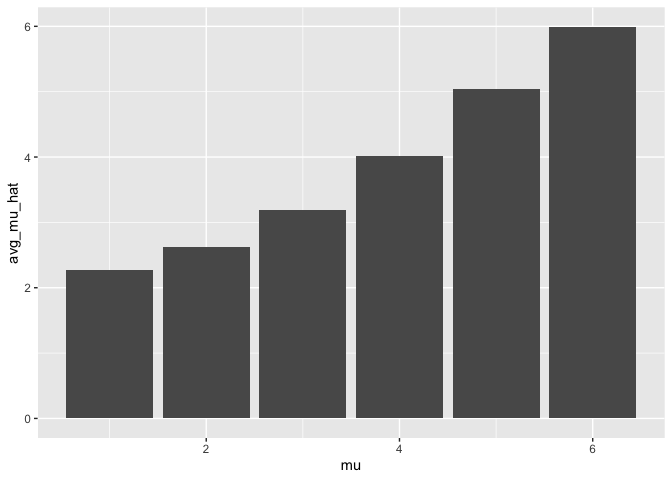
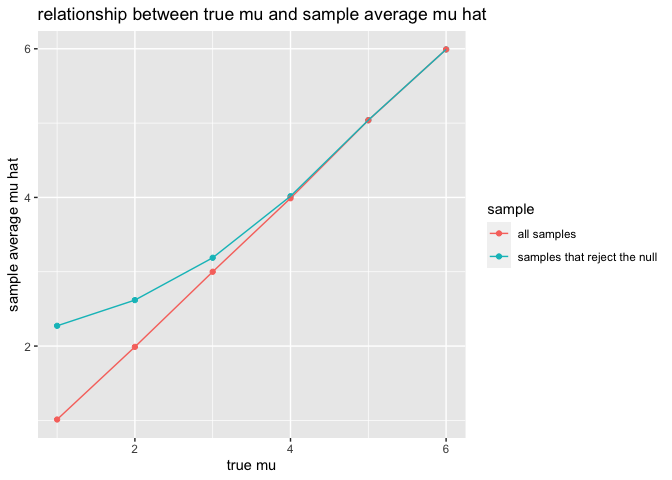
add comment

diff --git a/p8105_hw5_yw4005.md b/p8105_hw5_yw4005.md
@@ -1,7 +1,7 @@
 P8105 HW5
 ================
 Yijin Serena Wang
-2022-11-15
+2022-11-16
 
 ``` r
 library(tidyverse)
@@ -15,11 +15,18 @@ library(ggplot2)
 
 ## Problem 1
 
+Find all available csv files in p1_data folder and load them all.
+
 ``` r
 file_paths <- list.files("./p1_data", full.names = TRUE)
 participant_data <- tibble(file_name = str_replace(file_paths, "./p1_data/","")) %>%
   mutate(data = map(.x = file_paths, ~read_csv(file = .x)))
 ```
+
+Clean up the data set: 1. Split the full file name into only arm_id,
+then split it into separate columns for arm and id. 2. Pivot the data
+frame so that each row is for a weekly observation for a participant on
+a specific arm.
 
 ``` r
 participant_data <- participant_data %>%
@@ -51,6 +58,8 @@ head(participant_data)
     ## 5 control 01        5  0.23
     ## 6 control 01        6  1.09
 
+Plot all weekly readings and color it by arm and id number
+
 ``` r
 participant_data %>%
   ggplot(aes(x = week, y = value, color = interaction(id, arm))) +
@@ -73,6 +82,9 @@ The raw data contains information about criminal homicides in the last
 10 years in the US. It includes 52179 observations. They have victim’s
 information, specific location of homicide, whether an arrest was made.
 
+Save the data to a local path and create a city state column by merging
+the city and state columns.
+
 ``` r
 homicide_data <- read_csv("./p2_data/homicide-data.csv") %>%
   mutate(city_state = paste0(city, ", ", state)) %>%
@@ -87,6 +99,8 @@ homicide_data <- read_csv("./p2_data/homicide-data.csv") %>%
     ## 
     ## ℹ Use `spec()` to retrieve the full column specification for this data.
     ## ℹ Specify the column types or set `show_col_types = FALSE` to quiet this message.
+
+Count number of homicides and unsolved_homicides forr each city state.
 
 ``` r
 homicide_summary <- homicide_data %>%
@@ -152,6 +166,8 @@ homicide_summary %>%
 | Tulsa, OK          |                       583 |                          193 |
 | Washington, DC     |                      1345 |                          589 |
 
+Run prop.test for Baltimore only.
+
 ``` r
 baltimore_unsolved_test <- 
   prop.test(
@@ -164,22 +180,26 @@ baltimore_unsolved_test <-
 
 baltimore_unsolved_test %>% 
   tidy() %>%
+  select(estimate, conf.low, conf.high) %>%
   knitr::kable(digits = 5)
 ```
 
-| estimate | statistic | p.value | parameter | conf.low | conf.high | method                                               | alternative |
-|---------:|----------:|--------:|----------:|---------:|----------:|:-----------------------------------------------------|:------------|
-|  0.64556 |   239.011 |       0 |         1 |  0.62756 |   0.66316 | 1-sample proportions test with continuity correction | two.sided   |
+| estimate | conf.low | conf.high |
+|---------:|---------:|----------:|
+|  0.64556 |  0.62756 |   0.66316 |
 
 With 95% confidence level, estimated proportion is 0.6455607 and
 estimated confidence interval is (0.6275625, 0.6631599).
+
+Run prop test on all city states
 
 ``` r
 prop_test_results <- map2(
   .y  = homicide_summary$total_number_of_homicides,
   .x = homicide_summary$number_of_unsolved_homicides,
-  ~prop.test(x = .x, n = .y) %>%
-    tidy()
+  ~prop.test(x = .x, n = .y) %>% 
+    tidy() %>% 
+    select(estimate, conf.low, conf.high)
 )
 ```
 
@@ -200,14 +220,17 @@ head(prop_test_results) %>%
   knitr::kable(digits = 3)
 ```
 
-| city_state      | total_number_of_homicides | number_of_unsolved_homicides | estimate | statistic | p.value | parameter | conf.low | conf.high | method                                               | alternative |
-|:----------------|--------------------------:|-----------------------------:|---------:|----------:|--------:|----------:|---------:|----------:|:-----------------------------------------------------|:------------|
-| Albuquerque, NM |                       378 |                          146 |    0.386 |    19.114 |   0.000 |         1 |    0.337 |     0.438 | 1-sample proportions test with continuity correction | two.sided   |
-| Atlanta, GA     |                       973 |                          373 |    0.383 |    52.493 |   0.000 |         1 |    0.353 |     0.415 | 1-sample proportions test with continuity correction | two.sided   |
-| Baltimore, MD   |                      2827 |                         1825 |    0.646 |   239.011 |   0.000 |         1 |    0.628 |     0.663 | 1-sample proportions test with continuity correction | two.sided   |
-| Baton Rouge, LA |                       424 |                          196 |    0.462 |     2.267 |   0.132 |         1 |    0.414 |     0.511 | 1-sample proportions test with continuity correction | two.sided   |
-| Birmingham, AL  |                       800 |                          347 |    0.434 |    13.781 |   0.000 |         1 |    0.399 |     0.469 | 1-sample proportions test with continuity correction | two.sided   |
-| Boston, MA      |                       614 |                          310 |    0.505 |     0.041 |   0.840 |         1 |    0.465 |     0.545 | 1-sample proportions test with continuity correction | two.sided   |
+| city_state      | total_number_of_homicides | number_of_unsolved_homicides | estimate | conf.low | conf.high |
+|:----------------|--------------------------:|-----------------------------:|---------:|---------:|----------:|
+| Albuquerque, NM |                       378 |                          146 |    0.386 |    0.337 |     0.438 |
+| Atlanta, GA     |                       973 |                          373 |    0.383 |    0.353 |     0.415 |
+| Baltimore, MD   |                      2827 |                         1825 |    0.646 |    0.628 |     0.663 |
+| Baton Rouge, LA |                       424 |                          196 |    0.462 |    0.414 |     0.511 |
+| Birmingham, AL  |                       800 |                          347 |    0.434 |    0.399 |     0.469 |
+| Boston, MA      |                       614 |                          310 |    0.505 |    0.465 |     0.545 |
+
+Plot estimate and 95% confidence interval of proportion of unsolved
+homicides
 
 ``` r
 prop_test_results %>%
@@ -215,33 +238,41 @@ prop_test_results %>%
   geom_point(aes(y = estimate)) +
   geom_errorbar(aes(ymin = conf.low, ymax = conf.high)) +
   theme(axis.text.x = element_text(angle = 60, hjust = 1)) +
-  labs(x = "City state", y = "Estimated % of unsolved homicides")
+  labs(x = "City state", 
+       y = "Estimated % of unsolved homicides",
+       title = "Unsolved homicides: estimates and 95% CI")
 ```
 
 ![](p8105_hw5_yw4005_files/figure-gfm/error_bar_plot-1.png)<!-- -->
 
 ## Problem 3
 
+Set seed
+
 ``` r
 set.seed(10)
 ```
 
+Create a function for: 1. Generate a sample of size 30 from normal
+distribution with specified mean and sd = 5. 2. Run a t test on the
+sample with 95% confidence level, and extract estimate for mu and
+p_value
+
 ``` r
 sim_normal_t_test <- function(mu) {
   
-  sim_data = tibble(
-    x = rnorm(30, mean = mu, sd = 5),
-  )
-  
-  sim_data %>% 
-    summarize(
-      mu_hat = mean(x),
-      p_value = t.test(x, conf.level = 1-0.05) %>%
-        tidy() %>%
-        pull( p.value)
-    )
+  sample = rnorm(30, mean = mu, sd = 5)
+
+  test_result <- t.test(sample, conf.level = 1-0.05) %>%
+    tidy() %>%
+    select(estimate, p.value) %>%
+    rename(p_value = p.value,
+           mu_hat = estimate)
 }
 ```
+
+Generate 5000 samples of size 30 with mu = 0. Then run t-test of every
+sample.
 
 ``` r
 sim_results_df = 
@@ -254,6 +285,9 @@ sim_results_df =
   ) %>% 
   unnest(estimate_df)
 ```
+
+For each mu (from 1 to 6), generate 5000 samples of size 30. Then run
+t-test of every sample.
 
 ``` r
 mu <- 1:6
@@ -268,6 +302,9 @@ sim_results_mu_df =
   unnest(estimate_df)
 ```
 
+Summarize the total number of samples and samples that reject the null
+in t test. Then, plot rejection rate against true mu value.
+
 ``` r
 sim_results_mu_df %>%
   group_by(mu) %>%
@@ -275,18 +312,49 @@ sim_results_mu_df %>%
             reject_count = sum(p_value < 0.05),
             reject_rate = reject_count/total_count) %>%
   ggplot(aes(x = mu, y = reject_rate)) +
-  geom_bar(stat = "identity")
+  geom_bar(stat = "identity") +
+  labs(
+    x = "true mu",
+    y = "rejection rate",
+    title = "relationship between true mu and rejection rate"
+  )
 ```
 
-![](p8105_hw5_yw4005_files/figure-gfm/unnamed-chunk-12-1.png)<!-- -->
+![](p8105_hw5_yw4005_files/figure-gfm/unnamed-chunk-12-1.png)<!-- --> As
+the true mu increases, rejection rate grows as well. In other words,
+power grows as effect size grows.
+
+for each mu, calculate the average mu hat for all samples created and
+average mu hat for samples that reject the null in t-tests. Plot two
+averages against the true mu value.
 
 ``` r
-sim_results_mu_df %>%
+sim_results_all_sample_mu_avg <- sim_results_mu_df %>%
+  group_by(mu) %>%
+  summarise(avg_mu_hat = mean(mu_hat),
+            sample = "all samples") 
+
+sim_results_mu_avg_comparison <- sim_results_mu_df %>%
   filter (p_value < 0.05) %>%
   group_by(mu) %>%
-  summarise(avg_mu_hat = mean(mu_hat)) %>%
-  ggplot(aes(x = mu, y = avg_mu_hat, group = mu)) +
-  geom_bar(stat = "identity")
+  summarise(avg_mu_hat = mean(mu_hat),
+            sample = "samples that reject the null") %>%
+  rbind(sim_results_all_sample_mu_avg)
+  
+
+sim_results_mu_avg_comparison %>%
+  ggplot(aes(x = mu, y = avg_mu_hat, color = sample), group = sample) +
+  geom_point()+
+  geom_line() +
+  labs(
+    x = "true mu",
+    y = "sample average mu hat",
+    title = "relationship between true mu and sample average mu hat"
+  )
 ```
 
-![](p8105_hw5_yw4005_files/figure-gfm/unnamed-chunk-13-1.png)<!-- -->
+![](p8105_hw5_yw4005_files/figure-gfm/unnamed-chunk-13-1.png)<!-- --> As
+the true mu increases, sample average mu hat increases as well. Average
+mu hat of samples that reject the null are very close the true mu when
+the true mu is 4, 5, 6. When the true mu is less than 4, mu hat of
+samples that reject the null are larger than the true mu.
